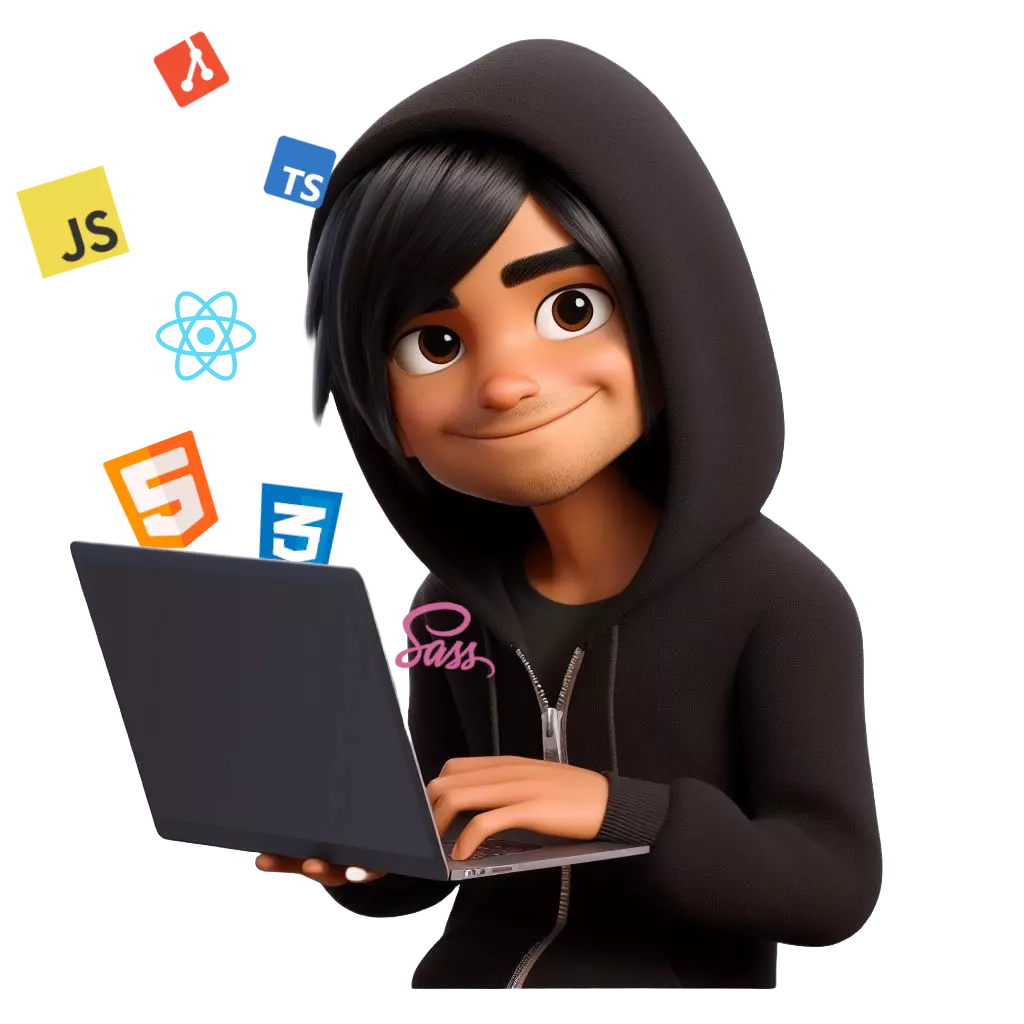
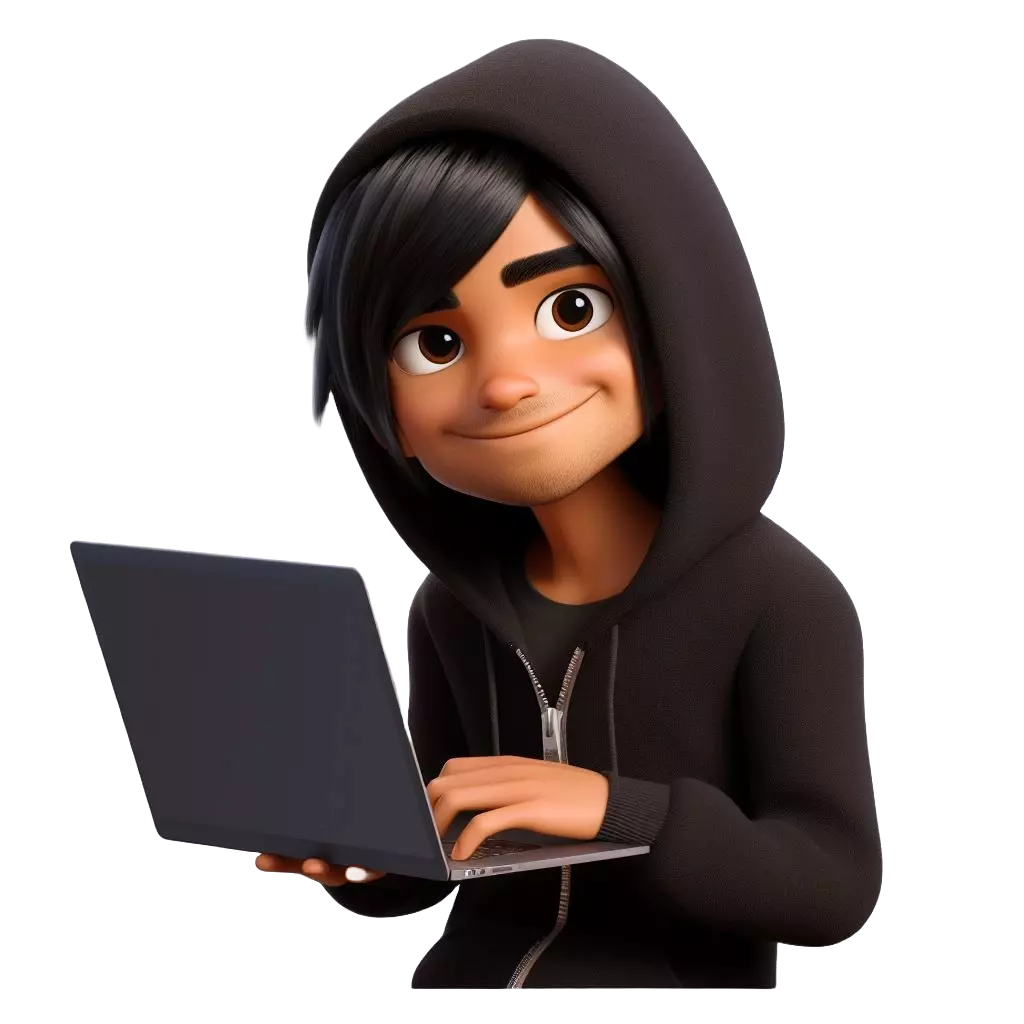
feat

diff --git a/src/Services/index.jsx b/src/Services/index.jsx
@@ -1,4 +1,4 @@
-import { useState } from 'react'
+import { useRef, useEffect, useState } from 'react'
 
 import { useTranslation } from 'react-i18next'
 import MotionFlip from '../animation/MotionFlip'
@@ -8,10 +8,19 @@ import Accordion from './Accordion'
 import styles from './Services.module.css'
 
 import avatar3d from './assets/vfo-ai.webp'
+import topLayer from './assets/vfo-ai-toplayer.webp'
 import service1 from './assets/service1.svg'
 import service2 from './assets/service2.svg'
 import service3 from './assets/service3.svg'
 import service4 from './assets/service4.svg'
+
+import htmlIcon from '../assets/logo-html.svg'
+import cssIcon from '../assets/logo-css.svg'
+import reactIcon from '../assets/logo-react.svg'
+import javascriptIcon from '../assets/logo-javascript.svg'
+import typescriptIcon from '../assets/logo-typescript.svg'
+import gitIcon from '../assets/logo-git.svg'
+import sassIcon from '../assets/logo-sass.svg'
 
 import artwork from './assets/artwork.webp'
 import art1 from './assets/art1.jpg'
@@ -22,9 +31,22 @@ import vfologo from './assets/vfologo.svg'
 
 const Services = () => {
 
+    const avatarRef = useRef()
+
     const { t } = useTranslation('servicesSection')
 
-    const [switchTab, setSwitchTab] = useState(false);
+    const [switchTab, setSwitchTab] = useState(false)
+
+    const [animateIcons, setAnimateIcons] = useState(false)
+
+    useEffect(() => {
+        const observer = new IntersectionObserver((entries) => {
+            if (entries[0].isIntersecting === true) {
+                setAnimateIcons(true)
+            }
+        }, { threshold: [1] })
+        observer.observe(avatarRef.current)
+    }, [])
 
     const devAccordionData = [
         { question: t('question1'), answer: t('answer1') },
@@ -68,7 +90,21 @@ const Services = () => {
                         <div className={styles.upContainer}>
                             <div className={styles.leftSide}>
                                 <MotionY delay={0}>
-                                    <img src={avatar3d} alt="Victor 3D avatar" />
+                                    <div ref={avatarRef} className={styles.avatarContainer}>
+                                        <img className={styles.topLayer} src={topLayer} alt="Laptop lid" />
+                                        {animateIcons && (
+                                            <>
+                                                <img id={styles.anim1} src={htmlIcon} alt="HTML icon" />
+                                                <img id={styles.anim2} src={cssIcon} alt="CSS icon" />
+                                                <img id={styles.anim3} src={reactIcon} alt="React icon" />
+                                                <img id={styles.anim4} src={javascriptIcon} alt="JavaScript icon" />
+                                                <img id={styles.anim5} src={typescriptIcon} alt="TypeScript icon" />
+                                                <img id={styles.anim6} src={gitIcon} alt="Git icon" />
+                                                <img id={styles.anim7} src={sassIcon} alt="Sass icon" />
+                                            </>
+                                        )}
+                                        <img className={styles.leftImg} src={avatar3d} alt="Victor 3D avatar" />
+                                    </div>
                                 </MotionY>
                             </div>
                             <div className={styles.rightSide}>
@@ -129,7 +165,9 @@ const Services = () => {
                         <div className={styles.upContainer}>
                             <div className={styles.leftSide}>
                                 <MotionY delay={0}>
-                                    <img src={artwork} alt="Digital art" />
+                                    <div ref={avatarRef} className={styles.avatarContainer}>
+                                        <img className={styles.leftImg} src={artwork} alt="Digital art" />
+                                    </div>
                                 </MotionY>
                             </div>
                             <div className={styles.rightSide}>

diff --git a/src/Services/Services.module.css b/src/Services/Services.module.css
@@ -65,15 +65,69 @@
                 gap: 2%;
 
                 @media (max-width: 767px) {
-                    display: block;
+                    display: flex;
+                    flex-direction: column;
+                    align-items: center;
                     margin-top: 0;
                 }
 
                 .leftSide {
                     text-align: center;
+                    width: 80%;
 
-                    & img {
-                        width: 80%;
+                    .avatarContainer {
+                        position: relative;
+                        
+                        .topLayer {
+                            position: absolute;
+                            width: 100%;
+                            z-index: 10;
+                        }
+
+                        .leftImg {
+                            width: 100%;
+                        }
+
+                        #anim1, #anim2, #anim3, #anim4, #anim5, #anim6, #anim7 {
+                            position: absolute;
+                            top: 0;
+                            left: 0;
+                        }
+
+                        #anim1 {
+                            width: 12%;
+                            animation: animate1 1.2s ease-in-out forwards;
+                        }
+
+                        #anim2 {
+                            width: 10%;
+                            animation: animate2 1.2s ease-in-out forwards;
+                        }
+
+                        #anim3 {
+                            width: 10%;
+                            animation: animate3 1.1s ease-in-out forwards;
+                        }
+
+                        #anim4 {
+                            width: 9%;
+                            animation: animate4 1s ease-in-out forwards;
+                        }
+
+                        #anim5 {
+                            width: 7%;
+                            animation: animate5 .9s ease-in-out forwards;
+                        }
+
+                        #anim6 {
+                            width: 7%;
+                            animation: animate6 .9s ease-in-out forwards;
+                        }
+
+                        #anim7 {
+                            width: 10%;
+                            animation: animate7 1s ease-in-out forwards;
+                        }
                     }
                 }
 
@@ -293,15 +347,74 @@
     }
 }
 
-@keyframes jump {
-    0% { transform: translateY(0); }
-    50% { transform: translateY(-25px); }
-    100% { transform: translateY(0); }
+/* Icons animation */
+
+@keyframes animate1 {
+    0% {
+        transform: translate(100%, 480%) rotate(0deg);
+    }
+
+    100% {
+        transform: translate(70%, 340%) rotate(-20deg);
+    }
 }
 
-@keyframes shake {
-    25% { rotate: -5deg; }
-    50% { rotate: 5deg; }
-    75% { rotate: -5deg; }
-    100% { rotate: 5deg; }
+@keyframes animate2 {
+    0% {
+        transform: translate(260%, 560%) rotate(0deg);
+    }
+
+    100% {
+        transform: translate(260%, 460%) rotate(20deg);
+    }
+}
+
+@keyframes animate3 {
+    0% {
+        transform: translate(160%, 560%) rotate(0deg);
+    }
+
+    100% {
+        transform: translate(160%, 320%) rotate(20deg);
+    }
+}
+
+@keyframes animate4 {
+    0% {
+        transform: translate(160%, 560%) rotate(0deg);
+    }
+
+    100% {
+        transform: translate(40%, 180%) rotate(-20deg);
+    }
+}
+
+@keyframes animate5 {
+    0% {
+        transform: translate(160%, 860%) rotate(0deg);
+    }
+
+    100% {
+        transform: translate(340%, 180%) rotate(20deg);
+    }
+}
+
+@keyframes animate6 {
+    0% {
+        transform: translate(160%, 860%) rotate(0deg);
+    }
+
+    100% {
+        transform: translate(200%, 50%) rotate(18deg);
+    }
+}
+
+@keyframes animate7 {
+    0% {
+        transform: translate(160%, 860%) rotate(0deg);
+    }
+
+    100% {
+        transform: translate(400%, 750%) rotate(18deg);
+    }
 }
